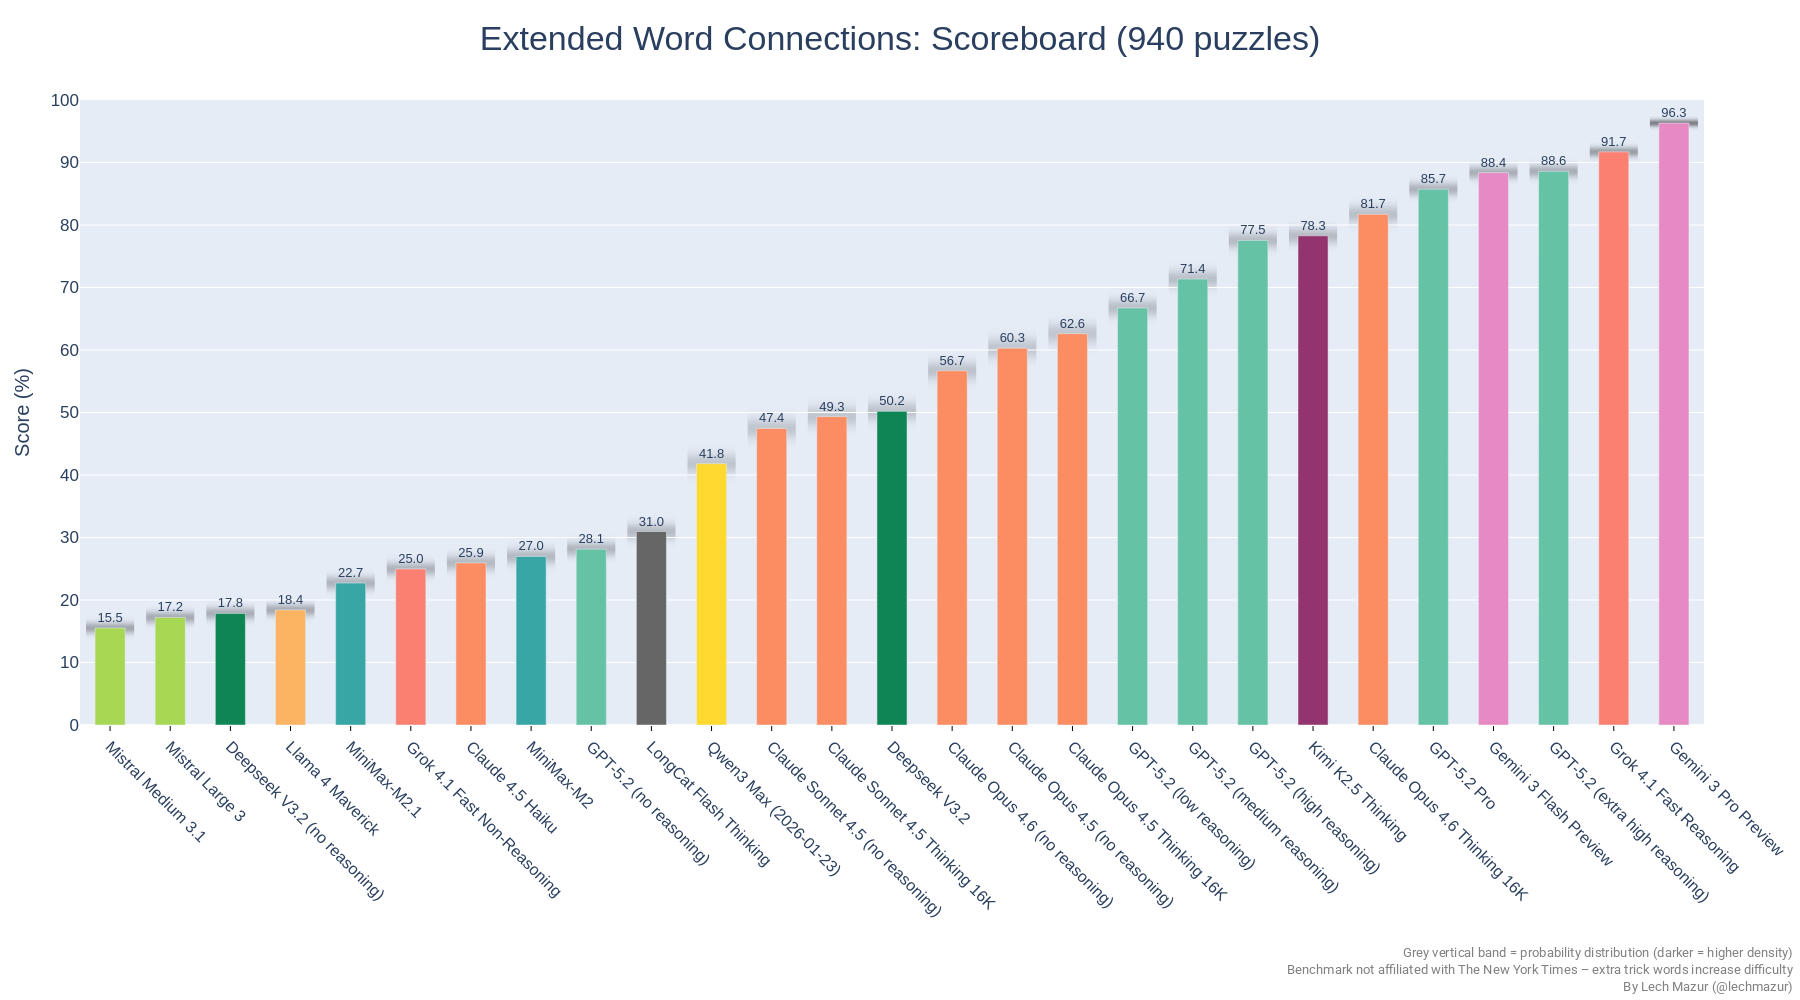
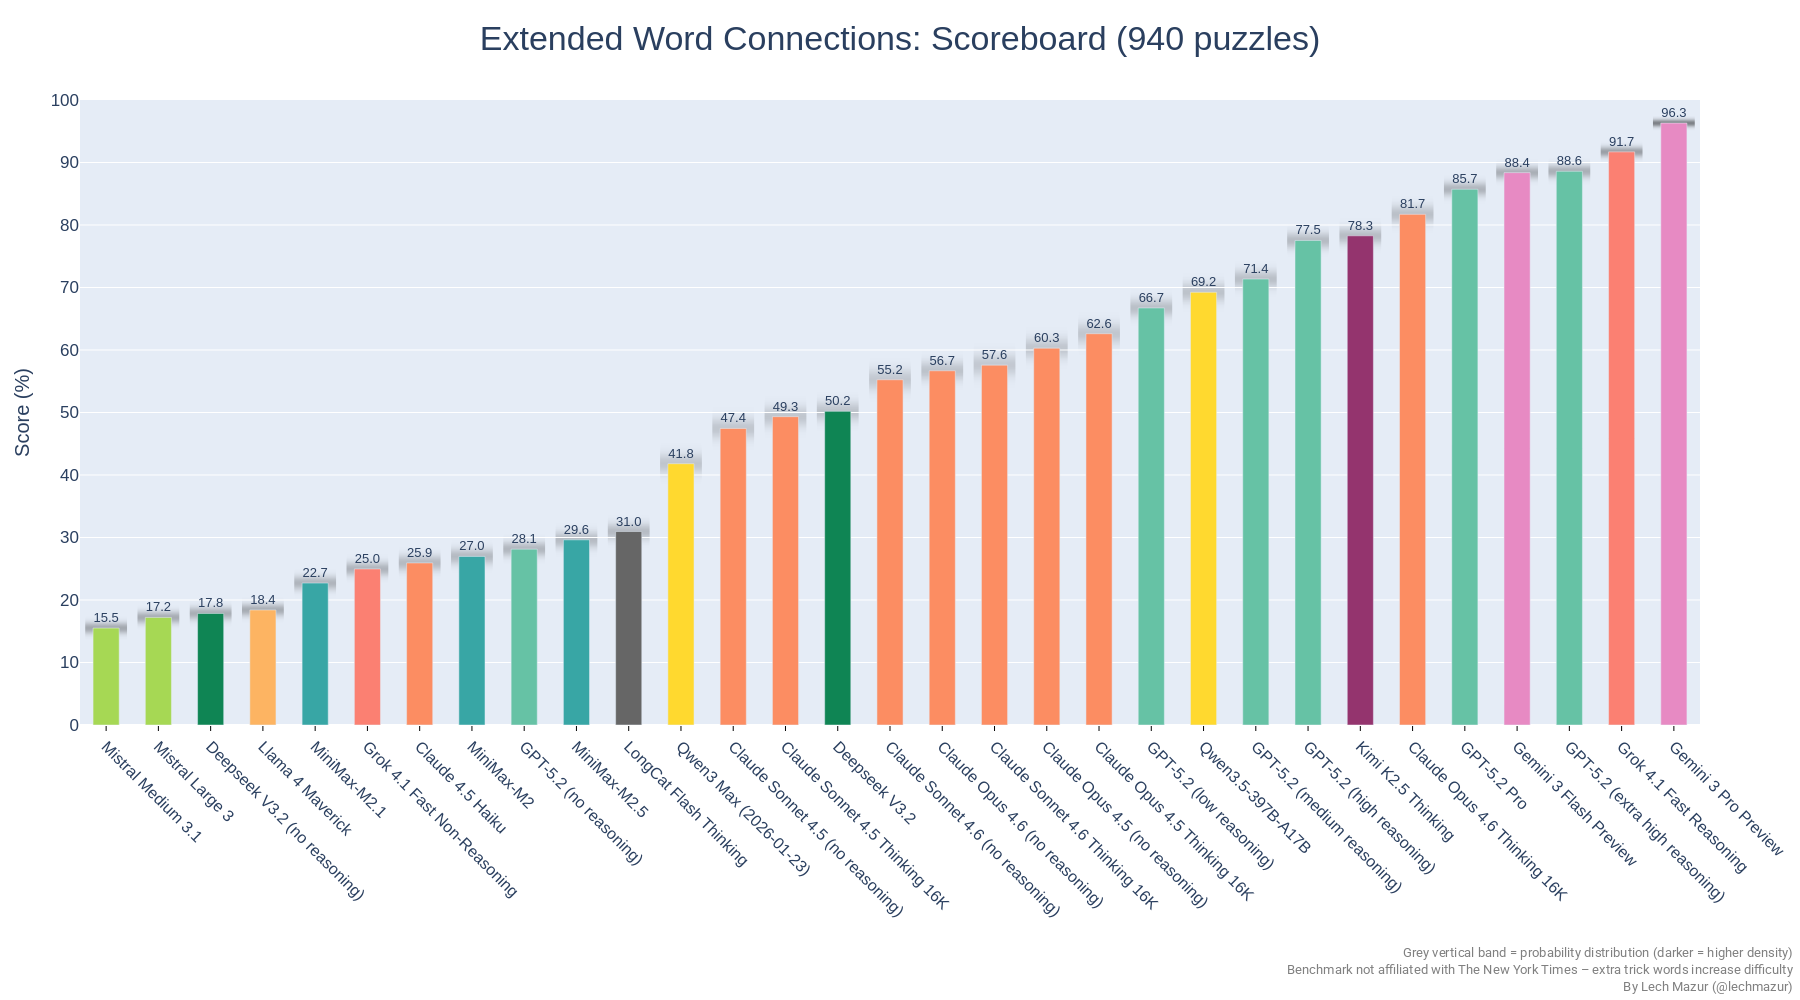
Claude Sonnet 4.6, Qwen3.5-397B-A17B, MiniMax-M2.5 added

Changed region(s): [[0.0622, 0.124, 0.9644, 0.93], [0.84, 0.868, 0.8711, 0.899], [0.1867, 0.868, 0.2178, 0.899]]

diff --git a/README.md b/README.md
@@ -12,8 +12,6 @@ As of Feb 4, 2025, there is a new version of the benchmark. The standard NYT Con
 
 |Rank|Model|Score %|#Puzzles|
 |---:|-----|------:|-------:|
-|Rank|Model|Score %|#Puzzles|
-|---:|-----|------:|-------:|
 |1|Gemini 3 Pro Preview|96.3|940|
 |2|Sherlock Think Alpha|92.4|759|
 |3|Grok 4 Fast Reasoning|92.1|759|
@@ -24,129 +22,137 @@ As of Feb 4, 2025, there is a new version of the benchmark. The standard NYT Con
 |8|Gemini 3 Flash Preview|88.4|940|
 |9|o3-pro (medium reasoning)|87.3|759|
 |10|GPT-5.2 Pro|85.7|940|
-|11|GPT-5 Pro|83.9|759|
-|12|o1-pro (medium reasoning)|82.5|651|
-|13|Claude Opus 4.6 Thinking 16K|81.7|940|
-|14|o3 (high reasoning)|78.6|759|
-|15|Kimi K2.5 Thinking|78.3|940|
-|16|GPT-5.2 (high reasoning)|77.5|940|
-|17|GPT-5 (high reasoning)|77.0|759|
-|18|o4-mini (high reasoning)|73.6|759|
-|19|o3 (medium reasoning)|73.0|759|
-|20|GPT-5 (medium reasoning)|72.2|759|
-|21|GPT-5.2 (medium reasoning)|71.4|940|
-|22|o1 (medium reasoning)|70.8|651|
-|23|GPT-5.1 (high reasoning)|69.9|759|
-|24|o4-mini (medium reasoning)|68.8|651|
-|25|GPT-5 mini (medium reasoning)|66.9|759|
-|26|GPT-5.2 (low reasoning)|66.7|940|
-|27|GPT-5 (low reasoning)|65.4|759|
-|28|GPT-5.1 (medium reasoning)|62.7|759|
-|29|Claude Opus 4.5 Thinking 16K|62.6|940|
-|30|o3-mini (high reasoning)|61.4|651|
-|31|Claude Opus 4.5 (no reasoning)|60.3|940|
-|32|Claude Opus 4.1 Thinking 16K|58.8|759|
-|33|DeepSeek V3.1 Reasoner|57.7|759|
-|34|Gemini 2.5 Pro|57.6|759|
-|35|Kimi K2 Thinking 64K|57.3|924|
-|36|Claude Opus 4.6 (no reasoning)|56.7|940|
-|37|Qwen 3 235B A22B|54.3|759|
-|38|Gemini 2.5 Pro Exp 03-25|54.1|651|
-|39|o3-mini (medium reasoning)|53.6|651|
-|40|Deepseek V3.2|50.2|940|
-|41|Claude Opus 4 Thinking 16K|49.7|759|
-|42|Claude Sonnet 4.5 Thinking 16K|49.3|940|
-|43|GLM-4.7|49.2|672|
-|44|DeepSeek R1 05/28|48.6|759|
-|45|Claude Sonnet 4.5 (no reasoning)|47.4|940|
-|46|Qwen 3 235B A22B 25-07 Think|46.2|759|
-|47|Gemini 2.5 Pro Preview 05-06|42.5|651|
-|48|Qwen3 Max (2026-01-23)|41.8|940|
-|49|Claude Sonnet 4 Thinking 16K|40.3|759|
-|50|Claude Sonnet 4 Thinking 64K|39.6|651|
-|51|GPT-OSS-120B|38.7|759|
-|52|DeepSeek R1|38.6|651|
-|53|Claude Opus 4.1 (no reasoning)|37.1|759|
-|54|Qwen 3 30B A3B|36.6|759|
-|55|Qwen 3 32B|35.8|759|
-|56|Qwen 3 30B A3B 25-07 Thinking|35.5|759|
-|57|Claude Opus 4 (no reasoning)|34.4|759|
-|58|GPT-4.5 Preview|34.2|651|
-|59|Claude 3.7 Sonnet Thinking 16K|33.6|651|
-|60|Qwen 3 Next 80B A3B Thinking|32.9|759|
-|61|Qwen QwQ-32B 16K|31.4|651|
-|62|LongCat Flash Thinking|31.0|940|
-|63|Grok 3 Mini Beta (high)|30.2|759|
-|64|GLM-4.5|30.2|759|
-|65|GPT-5.2 (no reasoning)|28.1|940|
-|66|GPT-5 (minimal reasoning)|27.3|759|
-|67|MiniMax-M2|27.0|940|
-|68|o1-mini|26.9|651|
-|69|Claude Sonnet 4 (no reasoning)|26.6|759|
-|70|Grok 3 Mini Beta (low)|26.0|651|
-|71|Claude 4.5 Haiku|25.9|940|
-|72|Quasar Alpha|25.4|651|
-|73|Cohere Command A Reasoning 16K|25.3|759|
-|74|Gemini 2.5 Flash|25.2|759|
-|75|Sherlock Dash Alpha|25.1|759|
-|76|Grok 4.1 Fast Non-Reasoning|25.0|940|
-|77|Grok 4 Fast Non-Reasoning|24.9|759|
-|78|GPT-4o Mar 2025|24.5|759|
-|79|GLM-4.6|24.2|759|
-|80|Qwen 3 Max Thinking|24.1|940|
-|81|Qwen 3 Max Preview|23.9|759|
-|82|Kimi K2-0905|23.6|759|
-|83|Gemini 2.0 Flash Think Exp 01-21|23.1|649|
-|84|GPT-4.1|22.8|759|
-|85|Sonoma Dusk Alpha|22.8|759|
-|86|MiniMax-M2.1|22.7|940|
-|87|GPT-4o Feb 2025|22.7|651|
-|88|GPT-5.1 (no reasoning)|22.1|759|
-|89|Polaris Alpha|21.8|759|
-|90|Gemini 2.0 Pro Exp 02-05|21.7|651|
-|91|DeepSeek V3.1 Non-Think|21.6|759|
-|92|MiniMax-M1|21.3|688|
-|93|Kimi K2|19.8|759|
-|94|Qwen 3 235B A22B 25-07 Instruct|19.8|759|
-|95|Grok 3 Beta (no reasoning)|19.7|759|
-|96|Grok 2 12-12|19.2|651|
-|97|Gemini 1.5 Pro (Sept)|19.2|601|
-|98|Claude 3 Opus|19.2|650|
-|99|Claude 3.7 Sonnet|19.2|651|
-|100|Gemini 2.0 Flash|18.8|651|
-|101|GPT-4o 2024-11-20|18.7|601|
-|102|Llama 4 Maverick|18.4|940|
-|103|Qwen 2.5 Max|18.0|651|
-|104|Deepseek V3.2 (no reasoning)|17.8|940|
-|105|GPT-4o 2024-08-06|17.8|601|
-|106|Claude 3.5 Sonnet 2024-10-22|17.7|651|
-|107|Llama 4 Scout|17.4|759|
-|108|Mistral Large 3|17.2|940|
-|109|DeepSeek V3-0324|16.8|759|
-|110|Llama 3.1 405B|16.2|651|
-|111|Mistral Medium 3.1|15.5|940|
-|112|DeepSeek V3|15.1|651|
-|113|Llama 3.3 70B|15.1|651|
-|114|Baidu Ernie 4.5 300B A47B|14.8|759|
-|115|GPT-4.1 mini|14.4|759|
-|116|LongCat Flash|13.9|660|
-|117|MiniMax-Text-01|13.8|759|
-|118|Cohere Command A|13.1|759|
-|119|Mistral Large 2|12.4|759|
-|120|Gemma 2 27B|12.2|651|
-|121|Gemma 3 27B|11.6|759|
-|122|Mistral Medium 3|11.5|759|
-|123|Mistral Small 3.1|11.4|651|
-|124|Mistral Small 3.2|11.2|759|
-|125|Qwen 2.5 72B|10.5|759|
-|126|Claude 3.5 Haiku|10.0|759|
-|127|Amazon Nova Pro|9.9|759|
-|128|Microsoft Phi-4|9.9|759|
-|129|GPT-4o mini|9.7|759|
-|130|Mistral Small 3|8.9|601|
-|131|GPT-4.1 nano|8.1|759|
-|132|GLM4-32B-0414|7.6|759|
-|133|Claude 3 Haiku|2.2|601|
+|11|glm-5|x|x|
+|12|GPT-5 Pro|83.9|759|
+|13|o1-pro (medium reasoning)|82.5|651|
+|14|Claude Opus 4.6 Thinking 16K|81.7|940|
+|15|o3 (high reasoning)|78.6|759|
+|16|Kimi K2.5 Thinking|78.3|940|
+|17|GPT-5.2 (high reasoning)|77.5|940|
+|18|GPT-5 (high reasoning)|77.0|759|
+|19|o4-mini (high reasoning)|73.6|759|
+|20|o3 (medium reasoning)|73.0|759|
+|21|GPT-5 (medium reasoning)|72.2|759|
+|22|GPT-5.2 (medium reasoning)|71.4|940|
+|23|o1 (medium reasoning)|70.8|651|
+|24|GPT-5.1 (high reasoning)|69.9|759|
+|25|Qwen3.5-397B-A17B|69.2|940|
+|26|o4-mini (medium reasoning)|68.8|651|
+|27|GPT-5 mini (medium reasoning)|66.9|759|
+|28|GPT-5.2 (low reasoning)|66.7|940|
+|29|GPT-5 (low reasoning)|65.4|759|
+|30|GPT-5.1 (medium reasoning)|62.7|759|
+|31|Claude Opus 4.5 Thinking 16K|62.6|940|
+|32|o3-mini (high reasoning)|61.4|651|
+|33|Claude Opus 4.5 (no reasoning)|60.3|940|
+|34|GLM-4.7|59.5|767|
+|35|Claude Opus 4.1 Thinking 16K|58.8|759|
+|36|DeepSeek V3.1 Reasoner|57.7|759|
+|37|Gemini 2.5 Pro|57.6|759|
+|38|Claude Sonnet 4.6 Thinking 16K|57.6|940|
+|39|Kimi K2 Thinking 64K|57.3|924|
+|40|Claude Opus 4.6 (no reasoning)|56.7|940|
+|41|Claude Sonnet 4.6 (no reasoning)|55.2|940|
+|42|Qwen 3 235B A22B|54.3|759|
+|43|Gemini 2.5 Pro Exp 03-25|54.1|651|
+|44|o3-mini (medium reasoning)|53.6|651|
+|45|Deepseek V3.2|50.2|940|
+|46|Claude Opus 4 Thinking 16K|49.7|759|
+|47|Claude Sonnet 4.5 Thinking 16K|49.3|940|
+|48|DeepSeek R1 05/28|48.6|759|
+|49|Claude Sonnet 4.5 (no reasoning)|47.4|940|
+|50|Qwen 3 235B A22B 25-07 Think|46.2|759|
+|51|Gemini 2.5 Pro Preview 05-06|42.5|651|
+|52|ByteDance Seed2.0 Pro|x|x|
+|53|Qwen3 Max (2026-01-23)|41.8|940|
+|54|Claude Sonnet 4 Thinking 16K|40.3|759|
+|55|Claude Sonnet 4 Thinking 64K|39.6|651|
+|56|GPT-OSS-120B|38.7|759|
+|57|DeepSeek R1|38.6|651|
+|58|Claude Opus 4.1 (no reasoning)|37.1|759|
+|59|Qwen 3 30B A3B|36.6|759|
+|60|Qwen 3 32B|35.8|759|
+|61|Qwen 3 30B A3B 25-07 Thinking|35.5|759|
+|62|Claude Opus 4 (no reasoning)|34.4|759|
+|63|GPT-4.5 Preview|34.2|651|
+|64|Claude 3.7 Sonnet Thinking 16K|33.6|651|
+|65|Qwen 3 Next 80B A3B Thinking|32.9|759|
+|66|Qwen QwQ-32B 16K|31.4|651|
+|67|LongCat Flash Thinking|31.0|940|
+|68|Grok 3 Mini Beta (high)|30.2|759|
+|69|GLM-4.5|30.2|759|
+|70|MiniMax-M2.5|29.6|940|
+|71|GPT-5.2 (no reasoning)|28.1|940|
+|72|GPT-5 (minimal reasoning)|27.3|759|
+|73|MiniMax-M2|27.0|940|
+|74|o1-mini|26.9|651|
+|75|Claude Sonnet 4 (no reasoning)|26.6|759|
+|76|Grok 3 Mini Beta (low)|26.0|651|
+|77|Claude 4.5 Haiku|25.9|940|
+|78|Quasar Alpha|25.4|651|
+|79|Cohere Command A Reasoning 16K|25.3|759|
+|80|Gemini 2.5 Flash|25.2|759|
+|81|Sherlock Dash Alpha|25.1|759|
+|82|Grok 4.1 Fast Non-Reasoning|25.0|940|
+|83|Grok 4 Fast Non-Reasoning|24.9|759|
+|84|GPT-4o Mar 2025|24.5|759|
+|85|GLM-4.6|24.2|759|
+|86|Qwen 3 Max Thinking|24.1|940|
+|87|Qwen 3 Max Preview|23.9|759|
+|88|Kimi K2-0905|23.6|759|
+|89|Gemini 2.0 Flash Think Exp 01-21|23.1|649|
+|90|GPT-4.1|22.8|759|
+|91|Sonoma Dusk Alpha|22.8|759|
+|92|MiniMax-M2.1|22.7|940|
+|93|GPT-4o Feb 2025|22.7|651|
+|94|GPT-5.1 (no reasoning)|22.1|759|
+|95|Baidu Ernie 5.0|x|x|
+|96|Polaris Alpha|21.8|759|
+|97|Gemini 2.0 Pro Exp 02-05|21.7|651|
+|98|DeepSeek V3.1 Non-Think|21.6|759|
+|99|MiniMax-M1|21.3|688|
+|100|Kimi K2|19.8|759|
+|101|Qwen 3 235B A22B 25-07 Instruct|19.8|759|
+|102|Grok 3 Beta (no reasoning)|19.7|759|
+|103|Grok 2 12-12|19.2|651|
+|104|Gemini 1.5 Pro (Sept)|19.2|601|
+|105|Claude 3 Opus|19.2|650|
+|106|Claude 3.7 Sonnet|19.2|651|
+|107|Gemini 2.0 Flash|18.8|651|
+|108|GPT-4o 2024-11-20|18.7|601|
+|109|Llama 4 Maverick|18.4|940|
+|110|Qwen 2.5 Max|18.0|651|
+|111|Deepseek V3.2 (no reasoning)|17.8|940|
+|112|GPT-4o 2024-08-06|17.8|601|
+|113|Claude 3.5 Sonnet 2024-10-22|17.7|651|
+|114|Llama 4 Scout|17.4|759|
+|115|Mistral Large 3|17.2|940|
+|116|DeepSeek V3-0324|16.8|759|
+|117|Llama 3.1 405B|16.2|651|
+|118|Mistral Medium 3.1|15.5|940|
+|119|DeepSeek V3|15.1|651|
+|120|Llama 3.3 70B|15.1|651|
+|121|Baidu Ernie 4.5 300B A47B|14.8|759|
+|122|GPT-4.1 mini|14.4|759|
+|123|LongCat Flash|13.9|660|
+|124|MiniMax-Text-01|13.8|759|
+|125|Cohere Command A|13.1|759|
+|126|Mistral Large 2|12.4|759|
+|127|Gemma 2 27B|12.2|651|
+|128|Gemma 3 27B|11.6|759|
+|129|Mistral Medium 3|11.5|759|
+|130|Mistral Small 3.1|11.4|651|
+|131|Mistral Small 3.2|11.2|759|
+|132|Qwen 2.5 72B|10.5|759|
+|133|Claude 3.5 Haiku|10.0|759|
+|134|Amazon Nova Pro|9.9|759|
+|135|Microsoft Phi-4|9.9|759|
+|136|GPT-4o mini|9.7|759|
+|137|Mistral Small 3|8.9|601|
+|138|GPT-4.1 nano|8.1|759|
+|139|GLM4-32B-0414|7.6|759|
+|140|Claude 3 Haiku|2.2|601|
+
 
 
 
@@ -256,6 +262,7 @@ This benchmark evaluates large language models (LLMs) using 436 NYT Connections 
 ---
 
 ## Updates
+- Feb 17, 2026: Claude Sonnet 4.6, Qwen3.5-397B-A17B, MiniMax-M2.5 added.
 - Feb 6, 2026: Claude Opus 4.6 added.
 - Feb 2, 2026: 940 total puzzles. Kimi K2.5 Thinking, Qwen3 Max (2026-01-23), MiniMax-M2.1, DeepSeek V3.2 added.
 - Dec 17, 2025: Gemini 3 Flash Preview added.
